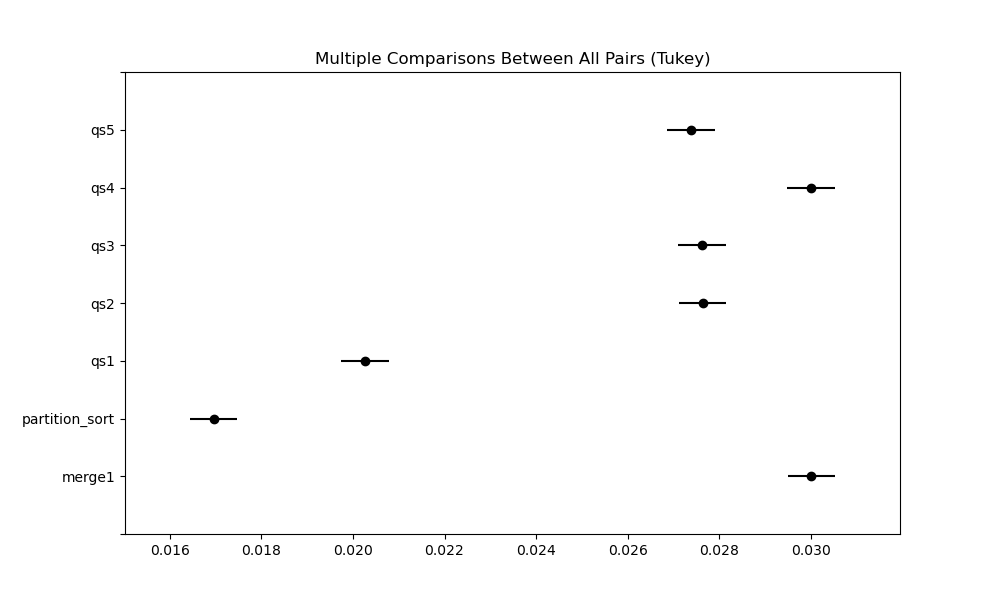
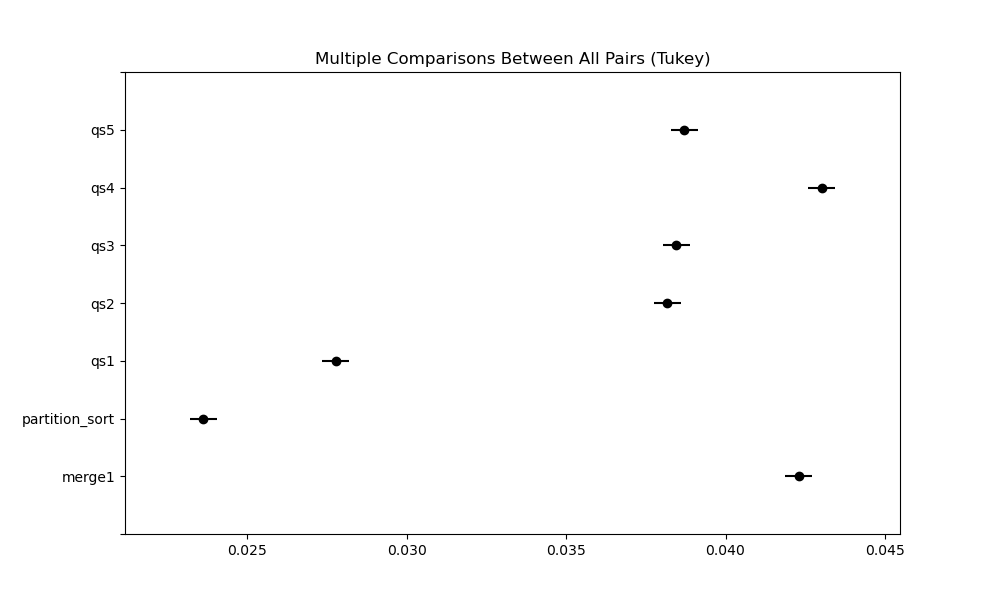
change values

diff --git a/e6/create_data.py b/e6/create_data.py
@@ -3,7 +3,7 @@ from implementations import all_implementations
 import pandas as pd
 import numpy as np
 
-random_array = np.random.randint(5000, size=5000)
+random_array = np.random.randint(7000, size=7000)
 
 data = pd.DataFrame(columns = ['qs1', 'qs2', 'qs3', 'qs4', 'qs5', 'merge1', 'partition_sort'])
 
